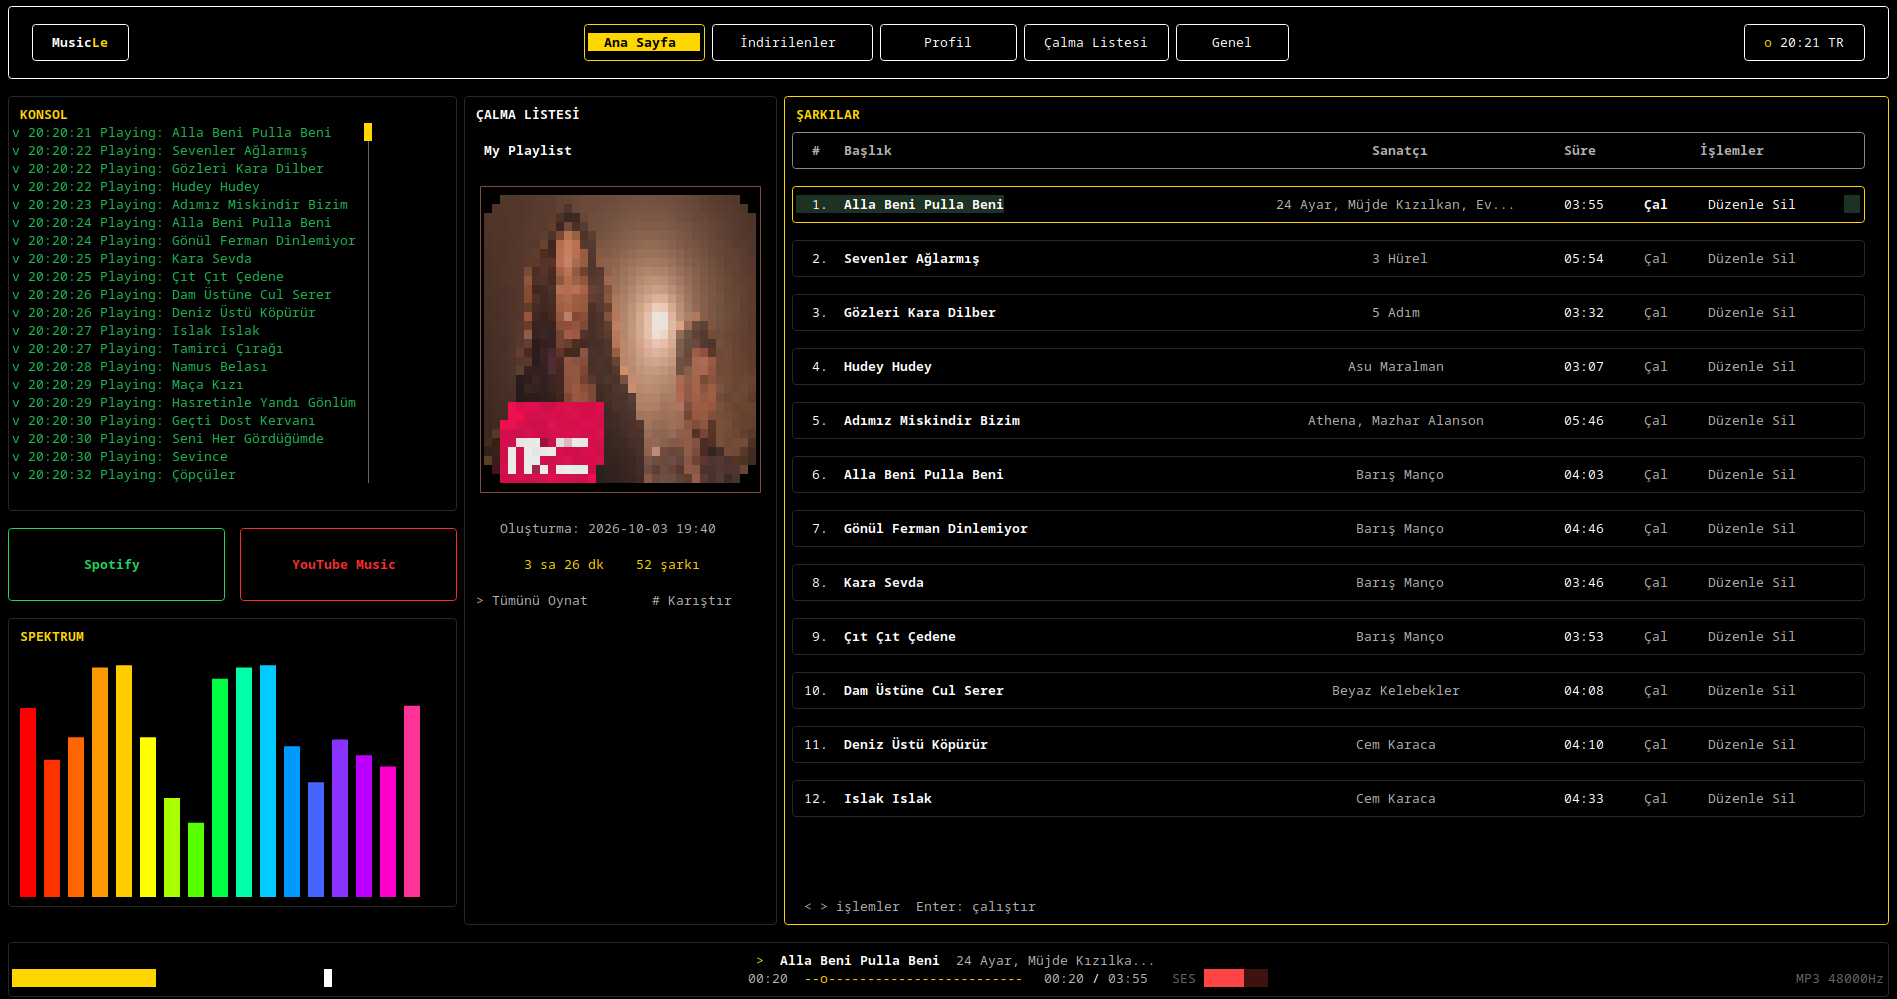
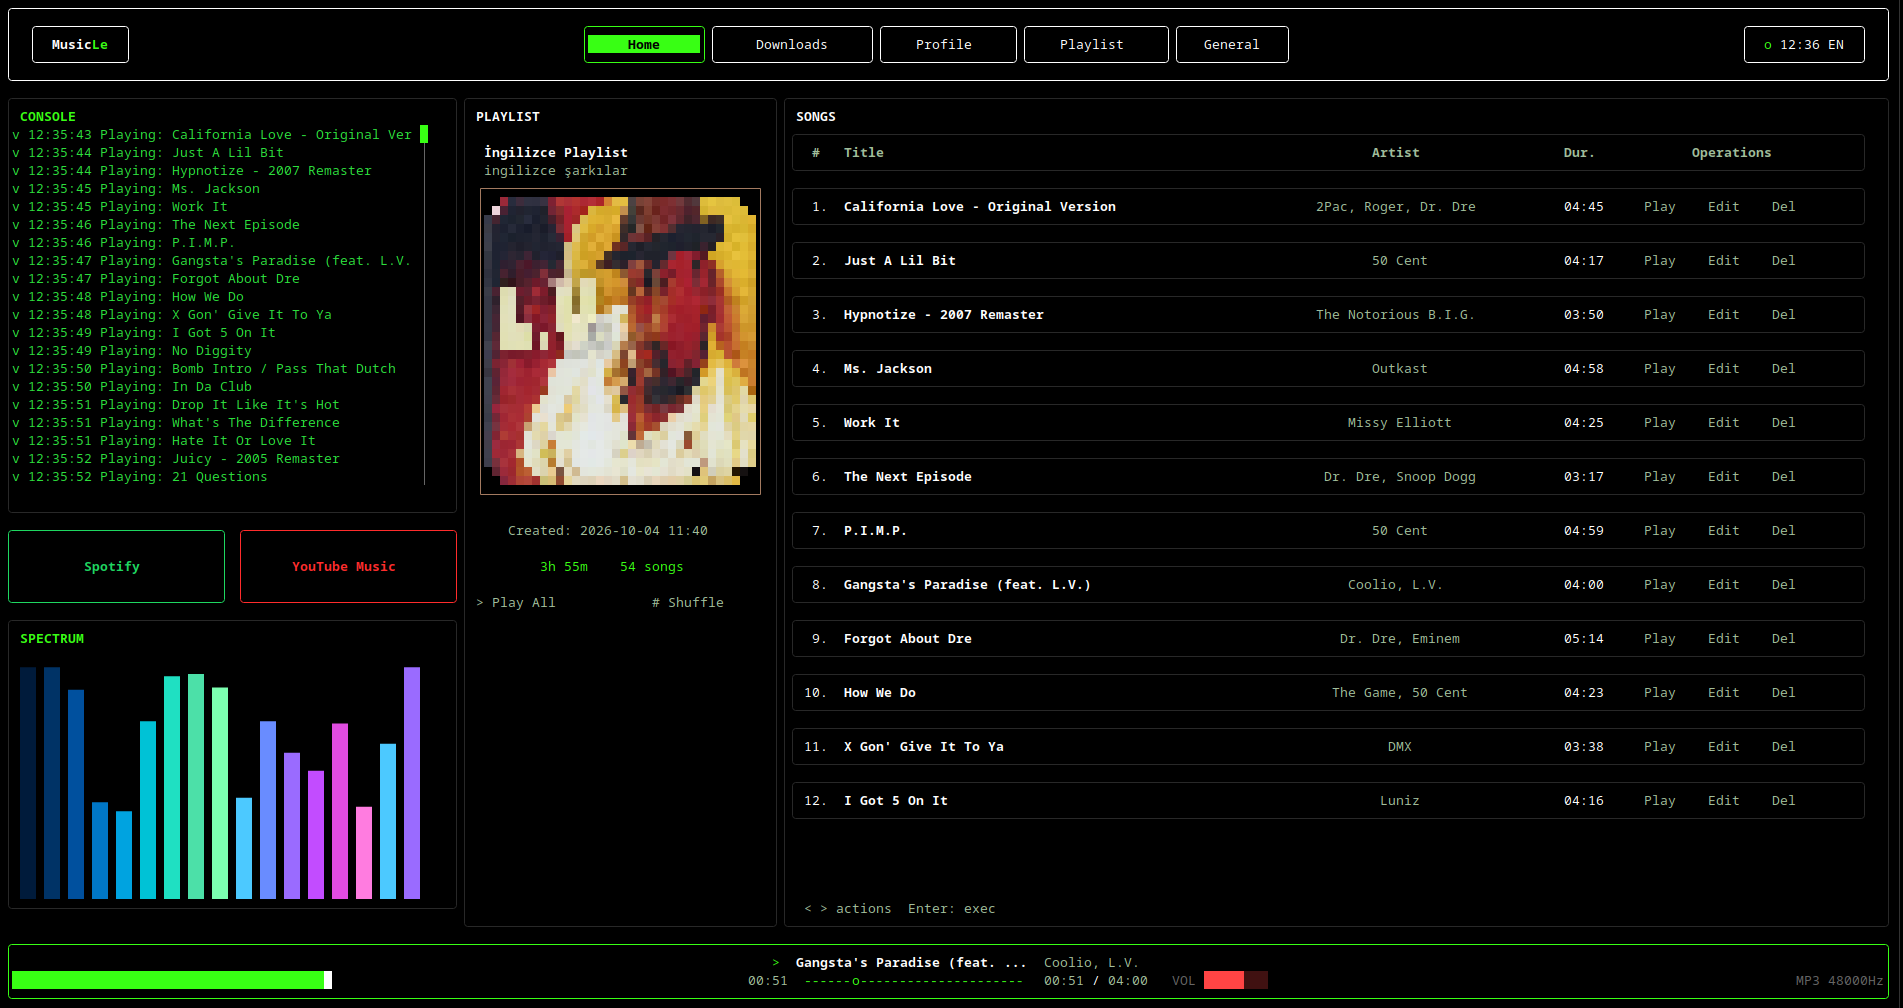
docs(readme): ingilizce README, demo gif hero + screenshots bolumu
- tum bolumler Ingilizceye cevrildi
- assets/musicle-demo.gif hero olarak eklendi (MusicleCLI* ignore kuralina takilmamasi icin yeniden adlandirildi)
- statik ekran goruntusu Screenshots bolumune tasinildi

diff --git a/README.md b/README.md
@@ -1,24 +1,24 @@
 # MusicLe CLI
 
-Terminalde çalışan, Spotify esintili arayüzlü müzik çalar ve kişisel arşiv yöneticisi (Go + Bubble Tea).
+A Spotify-inspired music player and personal library manager that runs in your terminal (Go + Bubble Tea).
 
-![MusicLe CLI](assets/musicle-app.png)
+![MusicLe CLI demo](assets/musicle-demo.gif)
 
-## Özellikler
+## Features
 
-- Spotify ve YouTube bağlantısıyla parça ve çalma listesi indirme (gömülü yt-dlp + FFmpeg, MP3 320k + kapak resmi)
-- Şarkı listesi, profil ve çalma listesi yönetimi; kayıtlar `song_list.txt` içinde tutulur
-- Çalan şarkının kapağı ana ekranda otomatik gösterilir
-- Spektrum görselleştirme, kayan şarkı sözü ve ses seviyesi çubukları
-- 11 dil desteği: Türkçe, English, Español, Deutsch, Français, العربية, Português, 中文, 日本語, Italiano, Русский
-- Tema ve spektrum paleti seçenekleri, çıkış cihazı ve ses limiti ayarı
-- Tarayıcı bağlayıcı: açık Spotify/YouTube Music sekmesindeki listeleri içe aktarma
-- Klavye kısayolları: F1 odak değiştir, F2 görünüm değiştir, F3 ayar sekmesi, ↑↓ ses, ←→ 5sn sar, Boşluk çal/duraklat, Esc ana sayfa
-- Tek dosyalık kurulum: AppImage / .exe / tar.gz, Windows/macOS/Linux desteği
+- Download tracks and playlists from Spotify and YouTube links (bundled yt-dlp + FFmpeg, 320 kbps MP3 + cover art)
+- Song list, profile and playlist management; entries are stored in `song_list.txt`
+- The playing track's cover art is shown automatically on the main screen
+- Spectrum visualizer, scrolling lyrics and volume bars
+- 11 languages: Turkish, English, Español, Deutsch, Français, العربية, Português, 中文, 日本語, Italiano, Русский
+- Theme and spectrum palette options, output device and volume limit settings
+- Browser connector: import playlists from an open Spotify / YouTube Music tab
+- Keyboard shortcuts: F1 change focus, F2 change view, F3 settings tab, ↑↓ volume, ←→ seek 5s, Space play/pause, Esc home
+- Single-file installs: AppImage / .exe / tar.gz for Windows, macOS and Linux
 
-## Kurulum
+## Installation
 
-Projeyi yerel ortamınızda çalıştırmak için aşağıdaki adımları takip edin:
+Build and run the project locally:
 
 ```bash
 git clone https://github.com/colgecen/MusicLeCLI.git
@@ -26,27 +26,31 @@ cd MusicLeCLI
 go build -o musicle-cli .
 ```
 
-Menülü derleme aracıyla paket çıkarmak için:
+To produce packages with the menu-driven build tool:
 
 ```bash
 musiclecli
 ```
 
-Hedef ve format seçin (Linux: AppImage/RPM/tar.gz/binary, Windows: .exe/.exe+zip, macOS: tar.gz/binary).
-Hazır ikililer için [sürümler](https://github.com/colgecen/MusicLeCLI/releases) sayfasına bakabilirsiniz.
+Pick a target and format (Linux: AppImage/RPM/tar.gz/binary, Windows: .exe/.exe+zip, macOS: tar.gz/binary).
+Prebuilt binaries are on the [releases](https://github.com/colgecen/MusicLeCLI/releases) page.
 
-## Kullanım
+## Usage
 
-Projenin nasıl kullanılacağına dair örnek:
+Run it with:
 
 ```bash
 ./build/musicle-cli
 ```
 
-İndirme sekmesine Spotify veya YouTube bağlantısını yapıştırıp hedef listeyi seçin, indirme bitince şarkılar kütüphanede belirir. Ana ekranda `↑↓` ile listede gezinip `Enter` ile çalın, `F1` ile oynatma çubuğuna odaklanıp ses ve sarma yapın. Ayarlardan dil, tema ve ses çıkışını değiştirin.
+Paste a Spotify or YouTube link into the Download tab and choose the target playlist; the tracks show up in your library once the download finishes. On the main screen browse the list with `↑↓` and press `Enter` to play, press `F1` to focus the player bar for volume and seeking, and change language, theme and audio output from the Settings tab.
 
-Yapılandırma `~/.config/musicle/config.json`, müzik arşivi `~/Music/MusicLe/` altında tutulur.
+Configuration lives in `~/.config/musicle/config.json`, the music archive under `~/Music/MusicLe/`.
 
-## Lisans
+## Screenshots
 
-Bu proje [Apache-2.0](LICENSE) lisansı altında lisanslanmıştır.
+![MusicLe CLI main screen](assets/musicle-app.png)
+
+## License
+
+This project is licensed under the [Apache-2.0](LICENSE) license.
